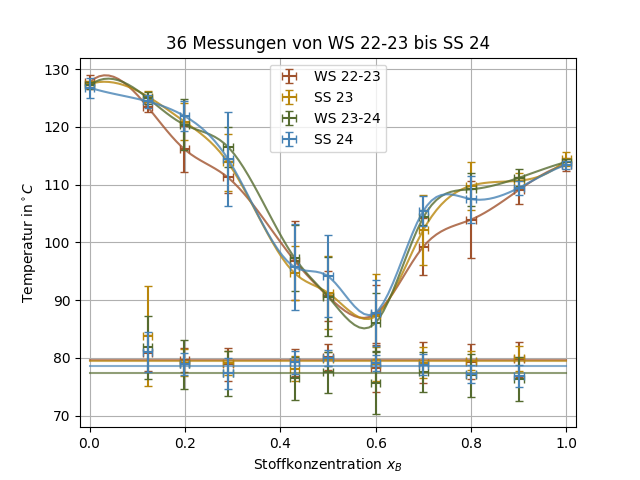
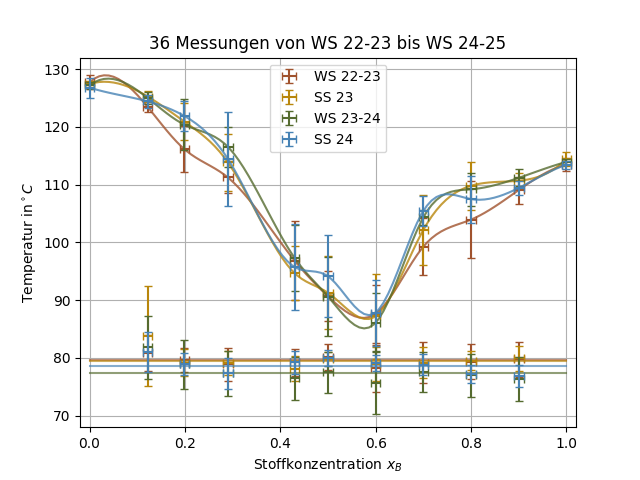
modified:   Daten/Mikroskop_WS_24-25.csv 	modified:   "L\303\266sungen.py" 	modified:   Mikroskop.py 	modified:   PNG/Mikroskop/Alle.png 	modified:   PNG/Mikroskop/Gesamt.png 	new file:   PNG/Mikroskop/Mikroskop AX.png 	new file:   PNG/Mikroskop/Mikroskop_WS_24-25.png 	new file:   PNG/Mikroskop/SS 2

Changed region(s): [[0.2188, 0.0625, 0.7812, 0.125]]

diff --git a/Mikroskop.py b/Mikroskop.py
@@ -4,28 +4,35 @@ import numpy as np
 import pandas as pd
 from scipy.interpolate import make_interp_spline
 import statistics as st
+import os
 
-path = "C:\\Users\\kontr\\Desktop\\Github\\PC"  # PC
-# path = 'C:\\Users\\Surface Pro 7 Manni\\Desktop\\Code Dateien\\P5\\525\\Messungen\\csv' # Surface
+path = os.path.dirname(os.path.abspath(__file__))
 
+# Anteile Acetanilid - Benzamid
 Anteil = [0.122, 0.199, 0.290, 0.430, 0.500, 0.600, 0.700, 0.800, 0.900, 0.000, 0.122, 0.199, 0.290, 0.430, 0.500, 0.600, 0.700, 0.800, 0.900, 1.000]
 Anteile = ['E122', 'E199', 'E290', 'E430', 'E500', 'E600', 'E700', 'E800', 'E900', 'L000', 'L122', 'L199', 'L290', 'L430', 'L500', 'L600', 'L700', 'L800', 'L900', 'E1000']
+# Anteile Acetanilid - Benzil
+Anteil2 = [0.122, 0.199, 0.290, 0.430, 0.500, 0.600, 0.700, 0.800, 0.900, 0.122, 0.199, 0.290, 0.430, 0.500, 0.600, 0.700, 0.800, 0.900, 1.000]	
+Anteile2 = ['E122', 'E199', 'E290', 'E430', 'E500', 'E600', 'E700', 'E800', 'E900', 'L122', 'L199', 'L290', 'L430', 'L500', 'L600', 'L700', 'L800', 'L900', 'L1000']
 
-Dateien = ['Mikroskop_WS_22-23', 'Mikroskop_SS_23', 'Mikroskop_WS_23-24', 'Mikroskop_SS_24']# , 'Mikroskop_WS_24-25'
-Bezeichnung = ['WS 22-23', 'SS 23', 'WS 23-24', 'SS 24']# , 'WS 24-25'
+# Daten einlesen
+Dateien = ['Mikroskop_WS_22-23', 'Mikroskop_SS_23', 'Mikroskop_WS_23-24', 'Mikroskop_SS_24', 'Mikroskop_WS_24-25']
+Bezeichnung = ['WS 22-23', 'SS 23', 'WS 23-24', 'SS 24', 'WS 24-25']
 colortable = ['sienna', 'darkgoldenrod', 'darkolivegreen', 'steelblue', 'darkmagenta']
 
+# Listen für die Werte
 WS2223 = np.zeros(len(Anteile))
 SS23 = np.zeros(len(Anteile))
 WS2324 = np.zeros(len(Anteile))
 SS24 = np.zeros(len(Anteile))
 WS2425 = np.zeros(len(Anteile))
-Mittelwertliste = np.array([WS2223, SS23, WS2324, SS24])# , WS2425
-Sigma = np.array([WS2223, SS23, WS2324, SS24])# , WS2425 
+Mittelwertliste = np.array([WS2223, SS23, WS2324, SS24, WS2425])
+Sigma = np.array([WS2223, SS23, WS2324, SS24, WS2425 ])
 
 ax, plt = plt.subplots()
 xWerte = np.linspace(0, 1, 100)
 Menge = []
+
 
 def Plotparams(Name, Titel):
     plt.set_ylim(68, 132)
@@ -34,14 +41,16 @@ def Plotparams(Name, Titel):
     plt.legend()
     plt.grid()
     plt.set_title(Titel)
-    ax.savefig(f'{path}\\PNG\\{Name}.png')
-    ax.savefig(f'{path}\\PDF\\{Name}.pdf')
+    ax.savefig(f'{path}\\PNG\\Mikroskop\\{Name}.png')
     ax.show()
     plt.cla()
 
+# Lineare Funktion
 def lin(Para, x): 
     return Para[0] + x*Para[1] - x*Para[1]
 
+
+# Fitfunktion
 def fit(func, x, y, Name, yError, Farbe, labeln):
     model = odr.Model(func)
     mydata = odr.RealData(x, y, sx= 0.01, sy=yError)
@@ -54,48 +63,61 @@ def fit(func, x, y, Name, yError, Farbe, labeln):
         plt.plot(xWerte, fy, label = Name, alpha=0.65, color=Farbe)
     return out
 
+
 # Jedes Semester einzeln in einem Plot
-for i in range(len(Dateien)):
-    Data = pd.read_csv(f'{path}\\Daten\\{Dateien[i]}.csv', sep=",",header=0, names=Anteile)
-    temp = 0
-    for j in Anteile:
-        Mittelwert = st.mean(Data[j])
-        SigmaTemp = 0
-        for k in Data[j]:
-            SigmaTemp = SigmaTemp + (k-Mittelwert)**2
-        Sigma[i][temp] = np.sqrt(SigmaTemp/len(Data[j]))
-        Mittelwertliste[i][temp] = Mittelwert
-        temp += 1
-    Menge.append(len(Data[j]))
-    fit(lin, Anteil[:9], Mittelwertliste[i][:9], Dateien[i][10:], Sigma[i][:9], colortable[i], True)
-    plt.errorbar(Anteil, Mittelwertliste[i], xerr=0.01, yerr=Sigma[i], color = colortable[i], capsize=3, linestyle='none')
-    Plotparams(Dateien[i], f'{len(Data[j])} Messungen {Bezeichnung[i]}') # Dateien[i]
-
-# Alle Semester in einen Plot übereinander gelegt
-for i in range(len(Dateien)):
-    fit(lin, Anteil[:9], Mittelwertliste[i][:9], None, Sigma[i][:9], colortable[i], False)
-    plt.errorbar(Anteil, Mittelwertliste[i], xerr=0.01, yerr=Sigma[i], color=colortable[i], capsize=3, linestyle='none', label=Bezeichnung[i])
-    X_Y_Spline = make_interp_spline(Anteil[9:], Mittelwertliste[i][9:])
-    Y_ = X_Y_Spline(xWerte)
-    plt.plot(xWerte, Y_, color=colortable[i], alpha=0.8)
-Plotparams('Alle', f'{sum(Menge)} Messungen von {Bezeichnung[0]} bis {Bezeichnung[-1]}')
-
-# Alle Werte in zusammengefasst in einem Plot
-Gesamtdurchschnitt = np.zeros(len(Anteile))
-Gesamtsigma = np.zeros(len(Anteile))
-for i in range(len(Mittelwertliste)):
-    Gesamtdurchschnitt = Gesamtdurchschnitt + Mittelwertliste[i]*(Menge[i]/sum(Menge))
-    Gesamtsigma = Gesamtsigma + Sigma[i]*(Menge[i]/sum(Menge))
-plt.errorbar(Anteil, Gesamtdurchschnitt, xerr=0.01, yerr=Gesamtsigma[i], color='black', capsize=3, linestyle='none', label=None)
-fit(lin, Anteil[:9], Gesamtdurchschnitt[:9], None, Gesamtsigma[:9], 'black', True)
-Plotparams('Gesamt', f'{sum(Menge)} Messungen von {Bezeichnung[0]} bis {Bezeichnung[-1]}')
-
-# Datenüberprüfung einer einzelnen Messung
-Zieldata = pd.read_csv(f'{path}\\Daten\\{Dateien[3]}.csv', sep=",",header=0, names=Anteile)
-Zieldata = Zieldata.iloc[-1].values
-plt.errorbar(Anteil[10:], Zieldata[10:], xerr=0.01, yerr=1, color='navy', capsize=3, linestyle='none', label='Liquidus')
-plt.errorbar(Anteil[:9], Zieldata[:9], xerr=0.01, yerr=1, color='red', capsize=3, linestyle='none', label='Eutektikale')
-fit(lin, Anteil[:9], Zieldata[:9], None, [1]*11, 'purple', True)
+def Jedes_semester_ein_plot():
+    for i in range(len(Dateien)):
+        Data = pd.read_csv(f'{path}\\Daten\\{Dateien[i]}.csv', sep=",",header=0, names=Anteile)
+        temp = 0
+        for j in Anteile:
+            Mittelwert = st.mean(Data[j])
+            SigmaTemp = 0
+            for k in Data[j]:
+                SigmaTemp = SigmaTemp + (k-Mittelwert)**2
+            Sigma[i][temp] = np.sqrt(SigmaTemp/len(Data[j]))
+            Mittelwertliste[i][temp] = Mittelwert
+            temp += 1
+        if i < 4:
+            Menge.append(len(Data[j]))
+        fit(lin, Anteil[:9], Mittelwertliste[i][:9], Dateien[i][10:], Sigma[i][:9], colortable[i], True)
+        plt.errorbar(Anteil, Mittelwertliste[i], xerr=0.01, yerr=Sigma[i], color = colortable[i], capsize=3, linestyle='none')
+        Plotparams(Dateien[i], f'{len(Data[j])} Messungen {Bezeichnung[i]}') # Dateien[i]
 
 
-Plotparams('WS2425\\Mikroskop AX', 'Daten der Gruppe AX')
+# Semester 1-4 in einen Plot übereinander gelegt
+def Benzamid_zusammengefasst_einzeln():
+    for i in range(4):
+        fit(lin, Anteil[:9], Mittelwertliste[i][:9], None, Sigma[i][:9], colortable[i], False)
+        plt.errorbar(Anteil, Mittelwertliste[i], xerr=0.01, yerr=Sigma[i], color=colortable[i], capsize=3, linestyle='none', label=Bezeichnung[i])
+        X_Y_Spline = make_interp_spline(Anteil[9:], Mittelwertliste[i][9:])
+        Y_ = X_Y_Spline(xWerte)
+        plt.plot(xWerte, Y_, color=colortable[i], alpha=0.8)
+    Plotparams('Alle', f'{sum(Menge)} Messungen von {Bezeichnung[0]} bis {Bezeichnung[-1]}')
+
+
+# Alle Werte Semester 1-4 in zusammengefasst in einem Plot
+def Benzamid_zusammengefasst_zusammen():
+    Gesamtdurchschnitt = np.zeros(len(Anteile))
+    Gesamtsigma = np.zeros(len(Anteile))
+    for i in range(4):
+        Gesamtdurchschnitt = Gesamtdurchschnitt + Mittelwertliste[i]*(Menge[i]/sum(Menge))
+        Gesamtsigma = Gesamtsigma + Sigma[i]*(Menge[i]/sum(Menge))
+    plt.errorbar(Anteil, Gesamtdurchschnitt, xerr=0.01, yerr=Gesamtsigma[i], color='black', capsize=3, linestyle='none', label=None)
+    fit(lin, Anteil[:9], Gesamtdurchschnitt[:9], None, Gesamtsigma[:9], 'black', True)
+    Plotparams('Gesamt', f'{sum(Menge)} Messungen von {Bezeichnung[0]} bis {Bezeichnung[-1]}')
+
+def JedeGruppeEinPlot():
+    for i in range(len(Dateien)):
+        Zieldata = pd.read_csv(f'{path}\\Daten\\{Dateien[i]}.csv', sep=",",header=0, names=Anteile)
+        for index, row in Zieldata.iterrows():
+            RowData = row.to_list()
+            plt.errorbar(Anteil[10:], RowData[10:], xerr=0.1, yerr=1, color='navy', capsize=3, linestyle='none', label='Liquidus')
+            plt.errorbar(Anteil[:9], RowData[:9], xerr=0.01, yerr=1, color='red', capsize=3, linestyle='none', label='Eutektikale')
+            fit(lin, Anteil[:9], RowData[:9], None, [0.1]*9, 'purple', True)
+            Plotparams(f'{Bezeichnung[i]}\\{index} Mikroskop', f'Daten der Gruppe {index}')
+
+
+# Jedes_semester_ein_plot()
+# Benzamid_zusammengefasst_zusammen()
+# Benzamid_zusammengefasst_einzeln()
+JedeGruppeEinPlot()

diff --git a/Lösungen.py b/Lösungen.py
@@ -7,8 +7,8 @@ from sklearn.metrics import r2_score
 
 
 fig, ax = plt.subplots()
-# path = "C:\\Users\\kontr\\Desktop\\Github\\PC"  # PC
-path = 'C:\\Users\\Surface Pro 7 Manni\\Desktop\\Code Dateien\\PC' # Surface
+path = "C:\\Users\\kontr\\Desktop\\Github\\PC"  # PC
+# path = 'C:\\Users\\Surface Pro 7 Manni\\Desktop\\Code Dateien\\PC' # Surface
 
 #Einlesen der Daten und Definition der Gruppen und Stoffe
 Data = pd.read_csv(f'{path}\\Daten\\Wasser_WS_24-25.csv', sep=",", header=0).astype(np.float64)
@@ -23,7 +23,7 @@ def lin(Para, x):
 # Ausrechnung der wässrigen Lösungen 
 def Auswertung(Gruppe, Stoff):
     C = 0.1                                                           # Molarität M = mol/L
-    C_Error = 0.03*C                                                # M
+    C_Error = 0.05*C                                                # M
     T_Data = np.array(Data[f'T({Gruppe}_{Stoff[:1]})'].values)+273.15   # K
     V_Data = np.array(Data[f'V({Gruppe}_{Stoff[:1]})'].values)          # mL
     T_Error = np.array([0.2]*len(T_Data))                               # K     (geraten)*
@@ -68,7 +68,7 @@ def Auswertung(Gruppe, Stoff):
         x_B_id_Error = abs(x_B_id*18000*T_Error/(8.31446*(T_Data)**2))
         
 
-    
+    print()
     print(f'Gruppe: {Gruppe}, Stoff: {Stoff}')
     print(f'Die Lösungsenthalpie beträgt: ({H_mLinf:.0f} \pm {H_mLinf_Error:.0f}) J/mol')
     print(f'Die Mischenthalpie beträgt: ({Mischenthalpie:.0f} \pm {Mischenthalpie_Error:.0f}) J/mol')
@@ -81,7 +81,8 @@ def Auswertung(Gruppe, Stoff):
     ax.plot(Rez_T, fy, c='red',label = f'({out.beta[0]:.0f}$\pm${out.sd_beta[0]:.0f}$) \cdot T^-$$^1 + ${out.beta[1]:.1f}$\pm${out.sd_beta[1]:.1f} mit $R^2 =${rsquared:.3f}' )     
     ax.errorbar(Rez_T, ln_x_B, xerr=Rez_T_Error, yerr=ln_x_B_Error, color='navy', capsize=3, linestyle='none', label='Messwerte')
     ax.set(xlabel='Reziproke Temperatur $^\circ C^{-1}$', ylabel='Stoffmengen-Logarithmus')
-    fig.suptitle(f'Bestimmung der 1. mol. Lösungsenthalpie $\Delta_LH_B^\infty$ = {H_mLinf:.0f} J/mol', fontsize=12)
+    fig.suptitle(f'1. mol. Lösungsenthalpie $\Delta_LH_B^\infty$ = ({H_mLinf:.0f} $\pm$ {H_mLinf_Error:.0f}) J/mol', fontsize=12)
+    ax.set_title(f'Mischenthalpie $\Delta_MH_B =$ ({Mischenthalpie:.0f} $\pm$ {Mischenthalpie_Error:.0f}) J/mol')
     ax.legend()
     ax.grid()
     ax.set_xticks(np.linspace(0.0031, 0.0033, 5))
